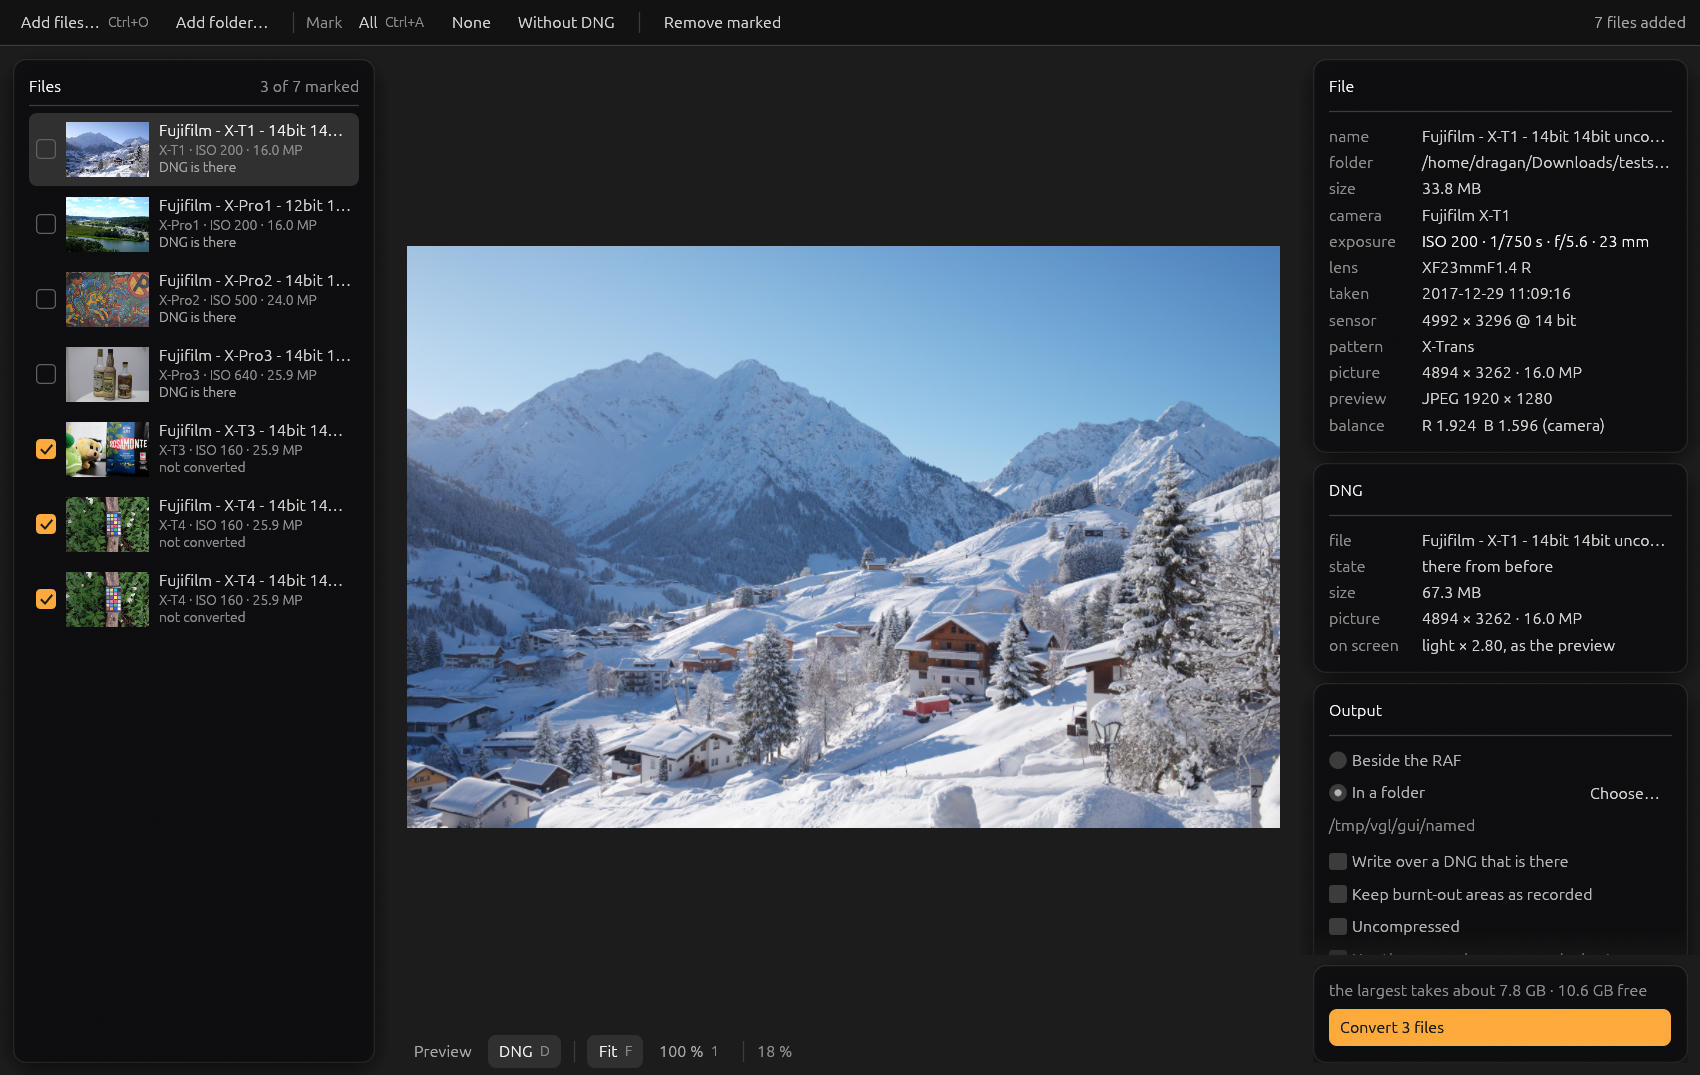
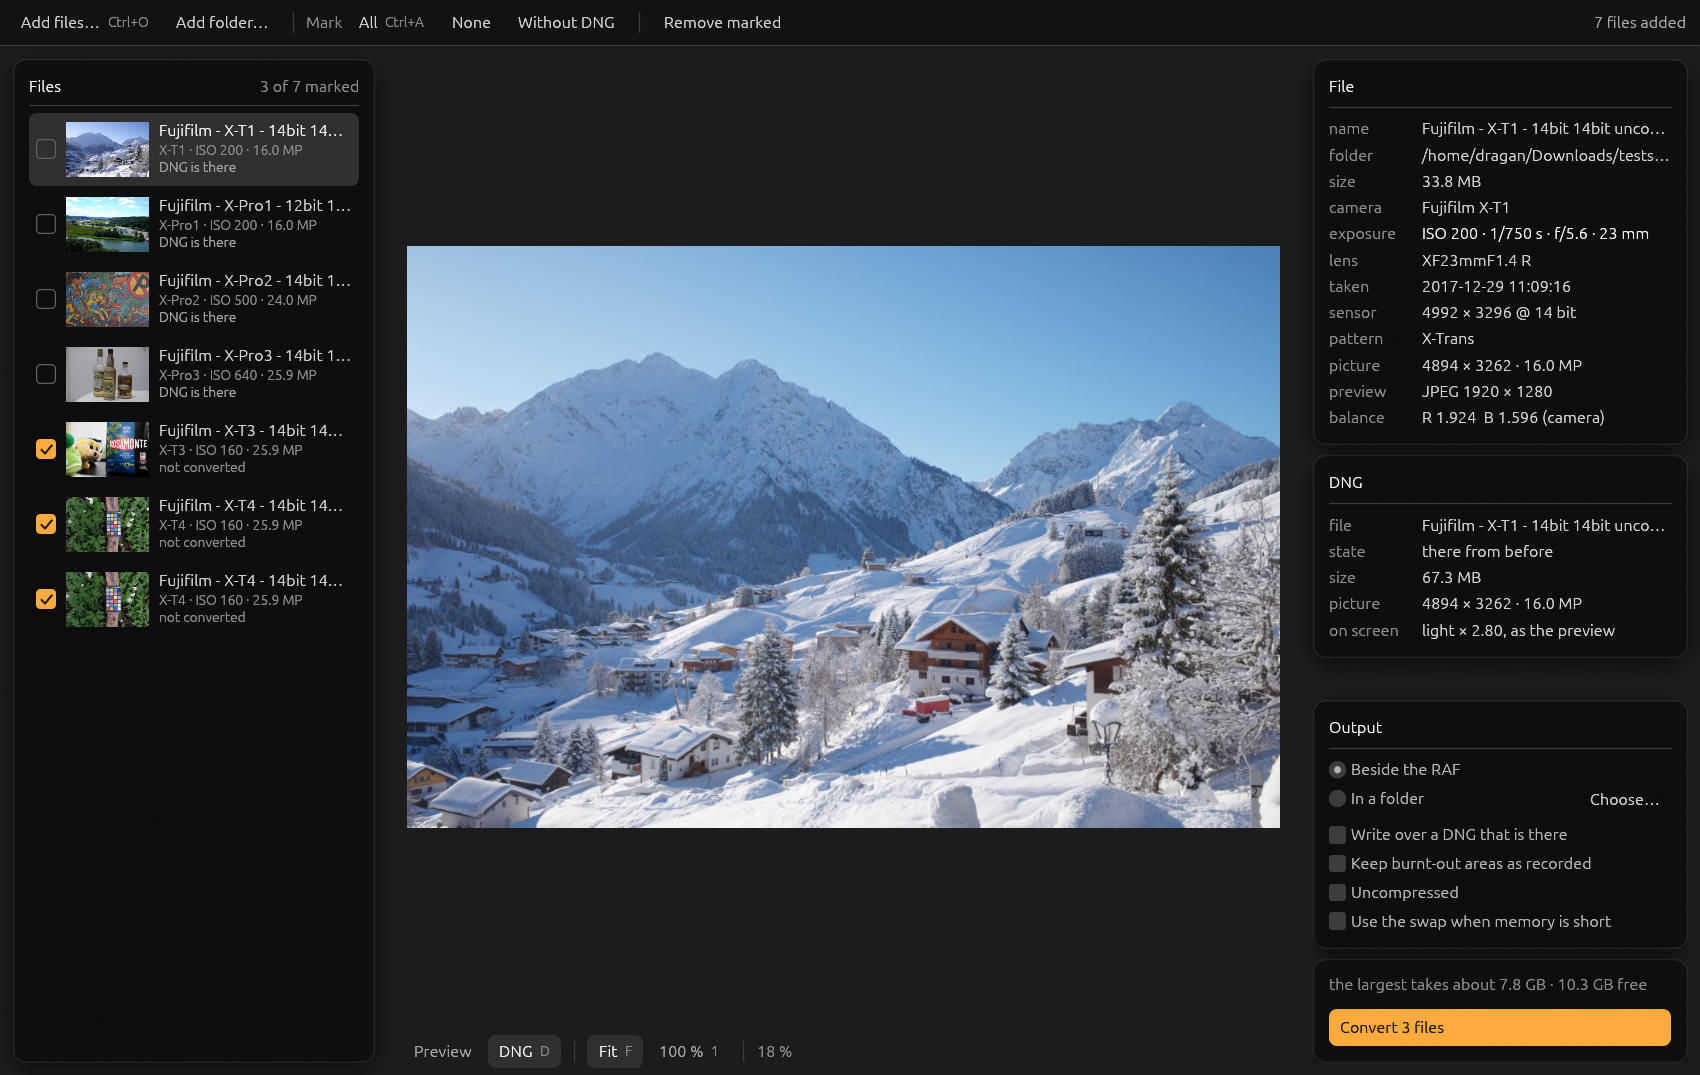
The window: keep what is set and pressed in sight
At the size the window opens in, the last of the four options, "Use
the swap when memory is short", was half under the panel with the
button: the panels at the right were one column that scrolls, and the
options were the last in it.

The options stand with the button now, at the bottom and not in the
scrolled part; what is only read, the file and its DNG, is above and
scrolls when the window is low or the DNG has more to say. Inside a
panel the lines are 5 points apart, not 8, so that all of it fits at
1360 x 860 with a folder named as well.

The README's picture is taken again with this, and with the DNGs
beside the RAFs, so that it does not show a folder of the test.

Run: cargo fmt --all --check; cargo clippy --release --workspace
--all-targets -- -D warnings; cargo test --release --workspace (19 and
23 pass); the window photographed itself at 1360 x 860 and the picture
was looked at: four options, none cut.

Not run: the window while a file is in work or just done, when the
panels are higher; the part above then scrolls.

diff --git a/gui/src/app.rs b/gui/src/app.rs
@@ -1033,17 +1033,22 @@ impl App {
         }
     }
 
+    /// What is set and pressed stands at the bottom and is always there;
+    /// what is only read is above it and scrolls when the window is low.
     fn side(&mut self, ui: &mut Ui) {
         egui::Panel::bottom("go")
             .resizable(false)
             .show_separator_line(false)
             .frame(egui::Frame::new().inner_margin(egui::Margin { top: 8, ..Default::default() }))
-            .show(ui, |ui| self.go_panel(ui));
+            .show(ui, |ui| {
+                ui.spacing_mut().item_spacing.y = 8.0;
+                self.output_panel(ui);
+                self.go_panel(ui);
+            });
         egui::ScrollArea::vertical().auto_shrink([false, false]).show(ui, |ui| {
             ui.spacing_mut().item_spacing.y = 8.0;
             self.file_panel(ui);
             self.dng_panel(ui);
-            self.output_panel(ui);
         });
     }
 

diff --git a/gui/src/theme.rs b/gui/src/theme.rs
@@ -73,6 +73,8 @@ pub fn glass() -> egui::Frame {
 pub fn panel(ui: &mut Ui, title: &str, beside: impl FnOnce(&mut Ui), add: impl FnOnce(&mut Ui)) {
     glass().show(ui, |ui| {
         ui.set_width(ui.available_width());
+        // Closer than the panels are to one another.
+        ui.spacing_mut().item_spacing.y = 5.0;
         ui.horizontal(|ui| {
             ui.label(RichText::new(title).strong().color(INK_LIT));
             ui.with_layout(egui::Layout::right_to_left(egui::Align::Center), beside);
